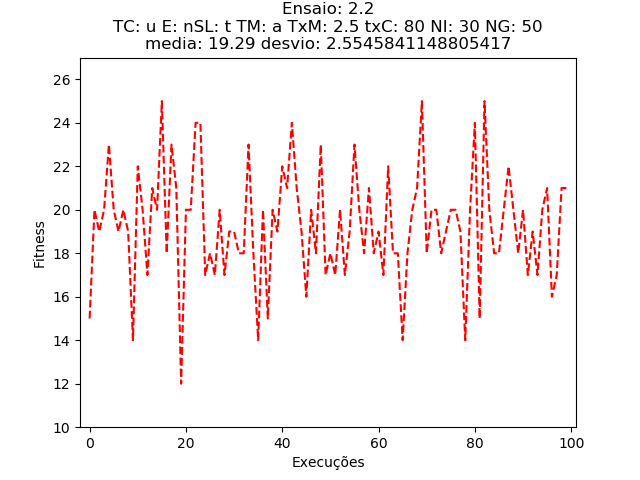
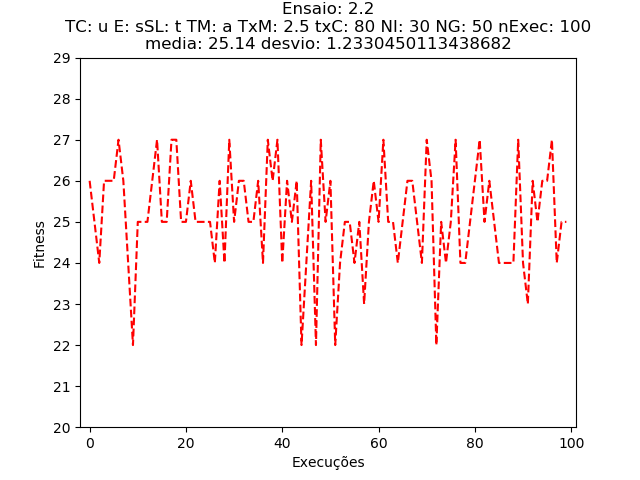
ajuste ag

diff --git a/algoritmoGenetico.py b/algoritmoGenetico.py
@@ -184,6 +184,7 @@ class AlgoritmoGenetico:
                 j=0
 
             while j < (numeroIndividuos/2):
+                positionPais = []
                 #Verificar metodo de selecao:
                 if(hasMapEscolhasUsuario[Constantes.tipoSelecao] == "r"):
                     positionPais = self.selecaoDosPaisRoleta(listaFitness)

diff --git a/main.py b/main.py
@@ -3,4 +3,4 @@ from plotaGrafico import PlotaGrafico
 from interfaceUsuario import InterfaceUsuario
 
 #InterfaceUsuario.inputsUsuario()
-InterfaceUsuario.inputsUsuarioComParametros("u", "n", "t", "a", 2.5, 80, 30, 50, "2.2", 100)
+InterfaceUsuario.inputsUsuarioComParametros("u", "s", "t", "a", 2.5, 80, 30, 50, "2.2", 100)
